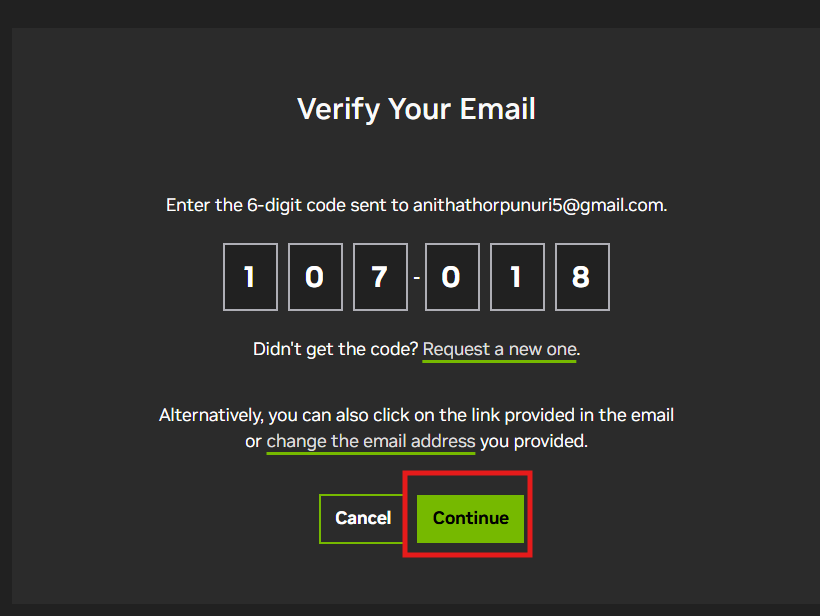
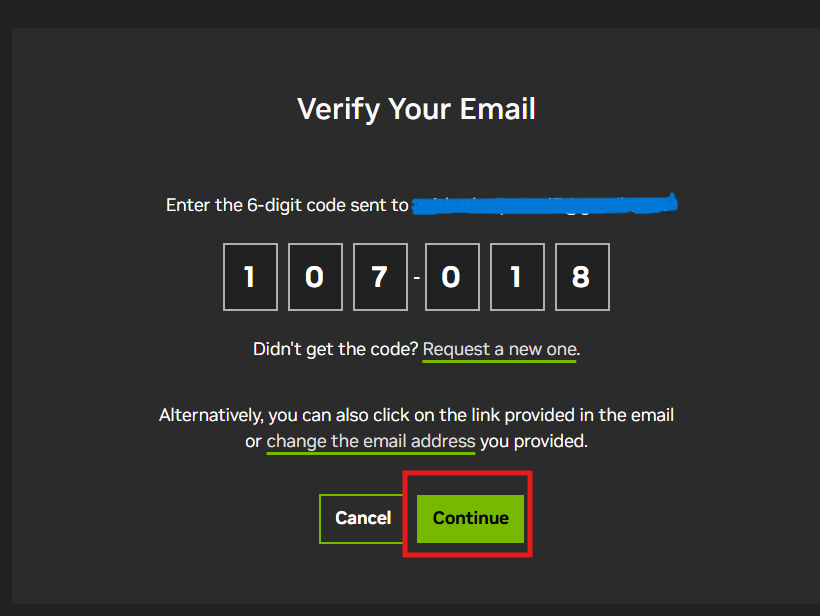
Update API key setup guide

Changed region(s): [[0.4878, 0.3084, 0.8232, 0.3701]]

diff --git a/README.md b/README.md
@@ -38,7 +38,7 @@ After logging in, accept the Mistral AI Terms of Service and Privacy Policy by c
 
 ## Step 3: Open the API Keys section
 Once you enter Mistral Studio, click API Keys from the left sidebar.
-![Screenshot](<Screenshot 2026-08-19 161412.png>)
+!![Screenshot](<Screenshot 2026-08-19 161412.png>)
 
 ## Step 4: Create a new API key
 In the My API Keys section, click the Create new key button to generate a new API key.
